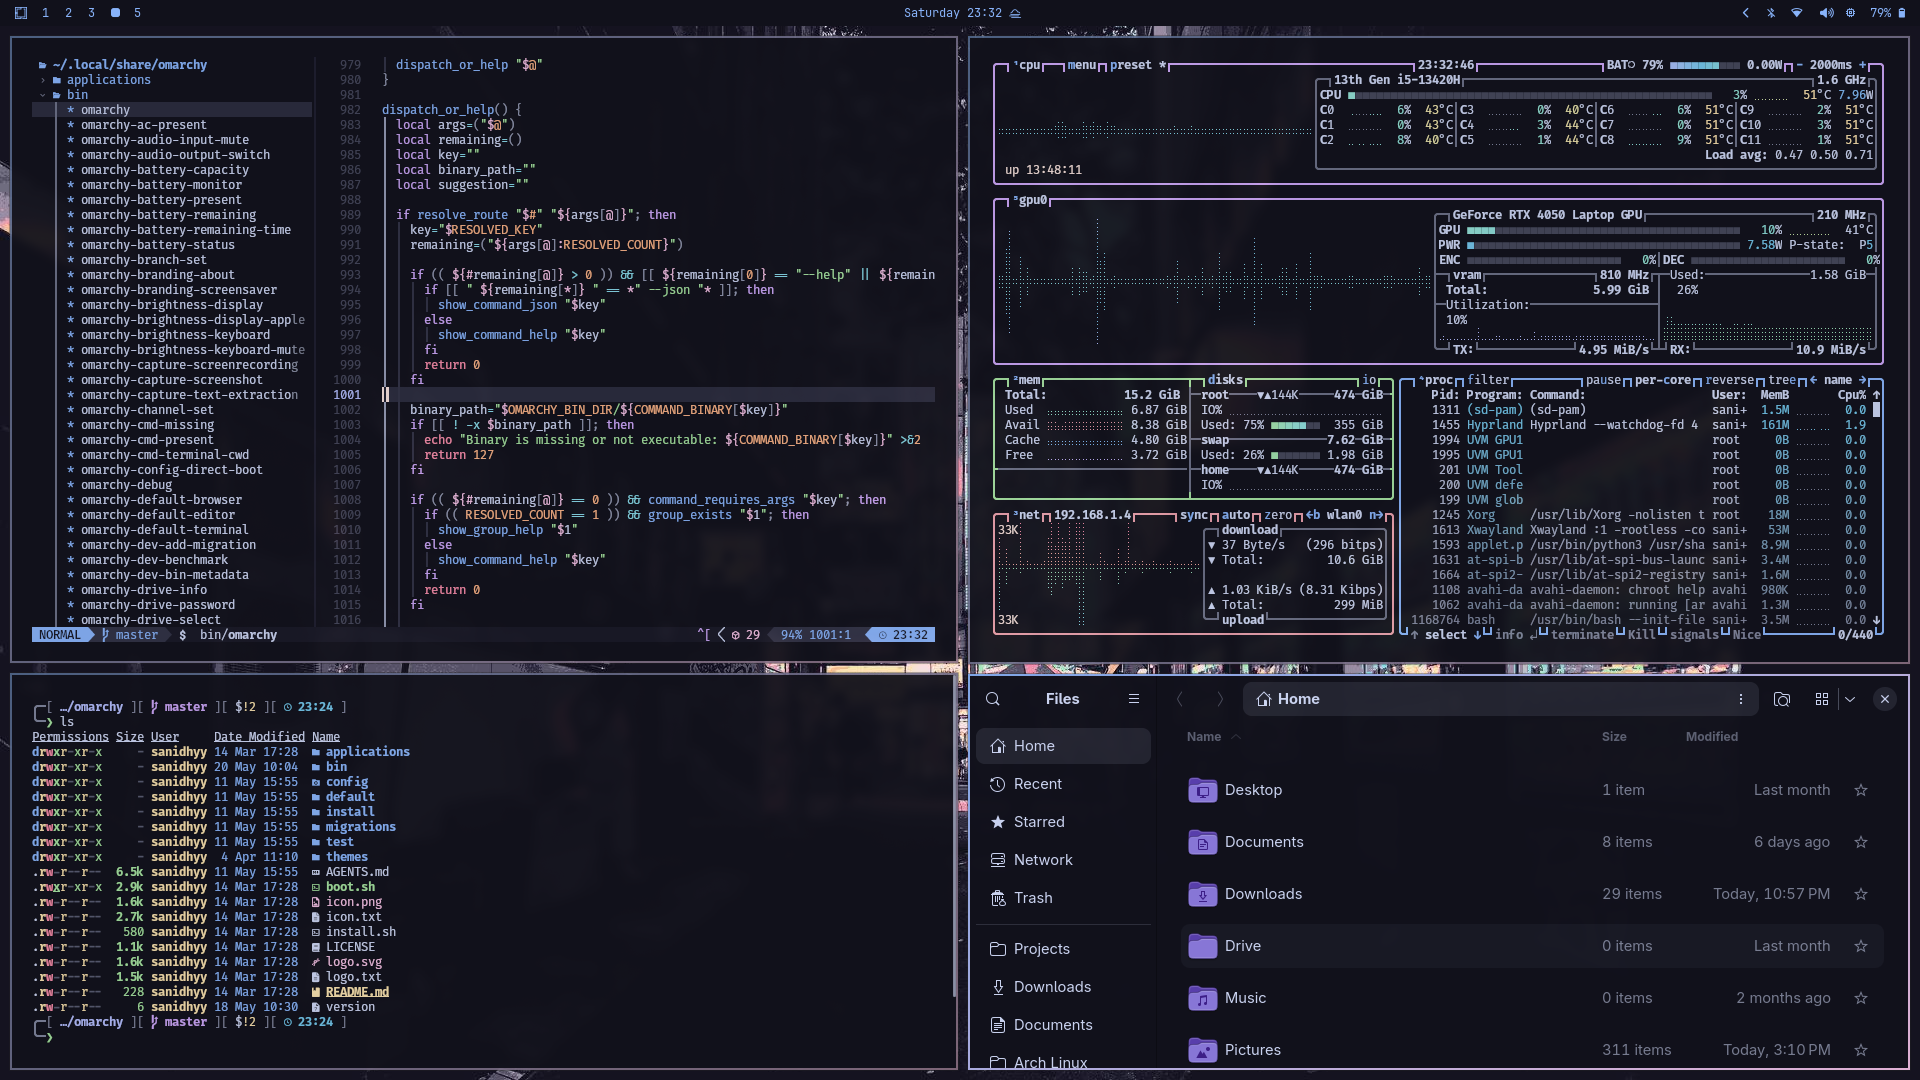
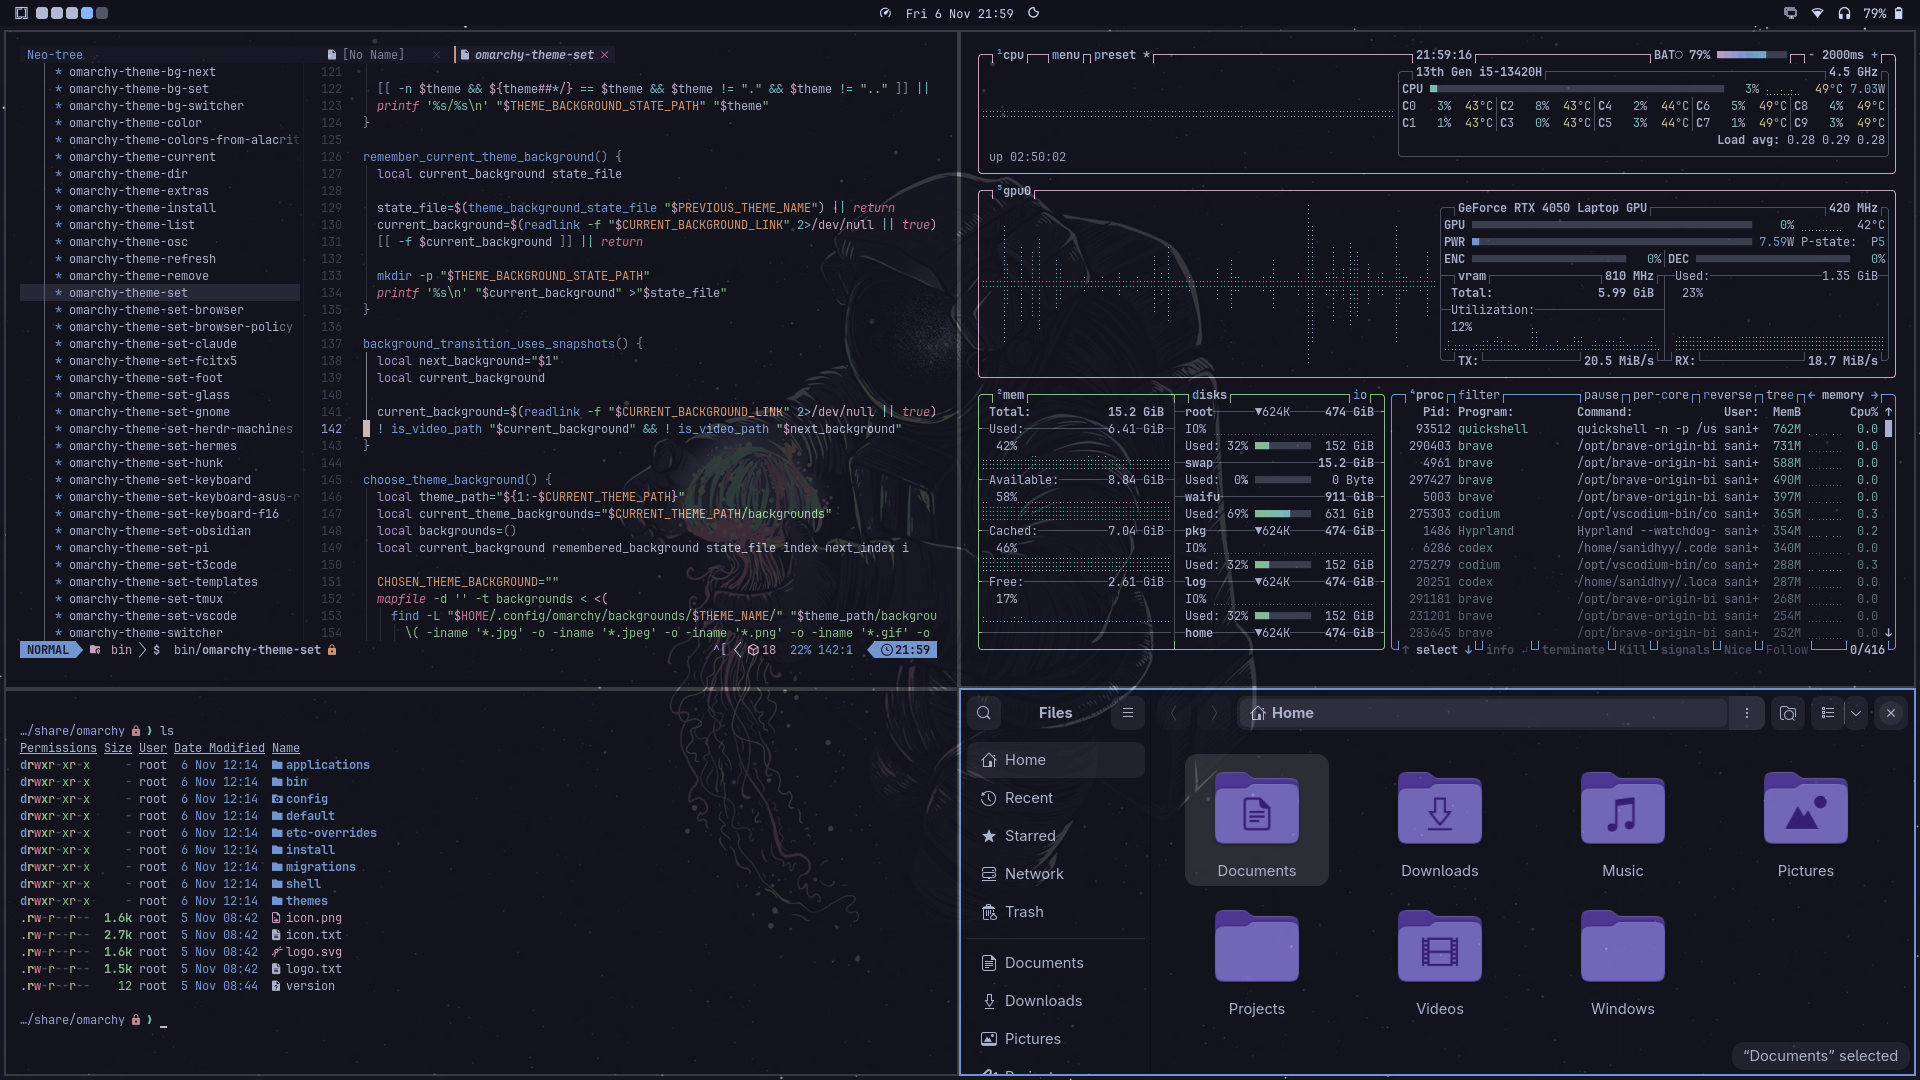
chore(docs): add new previews

diff --git a/README.md b/README.md
@@ -24,9 +24,9 @@ Or use the menu: **Menu → Appearance → Unlock**.
 
 ## :camera: Preview
 
-![Fastfetch • LazyVim • Cliamp • Cava](./.github/images/img1.png "Fastfetch • LazyVim • Cliamp • Cava")
+![Fastfetch • Lazyvim • Cliamp • Cava](./.github/images/preview1.png "Fastfetch • Lazyvim • Cliamp • Cava")
 
-![VSCode • Chromium • Walker • SwayOSD • Mako](./.github/images/img2.png "VSCode • Chromium • Walker • SwayOSD • Mako")
+![Quickshell · VSCode · Foot · Brave](./.github/images/preview2.png "Quickshell · VSCode · Foot · Brave")
 
 ![Unlock Preview](./preview-unlock.png "Unlock Preview")
 
